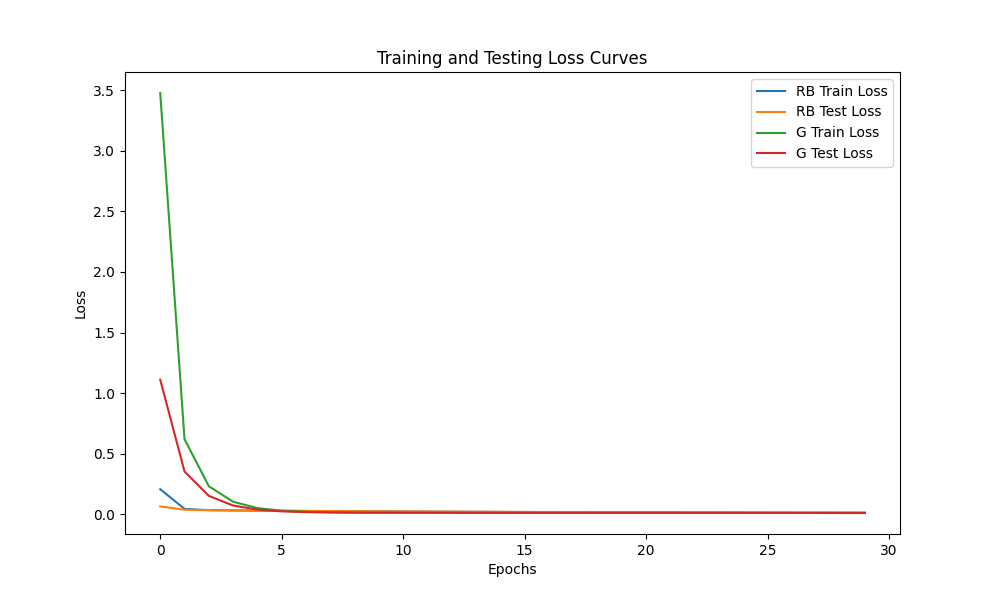
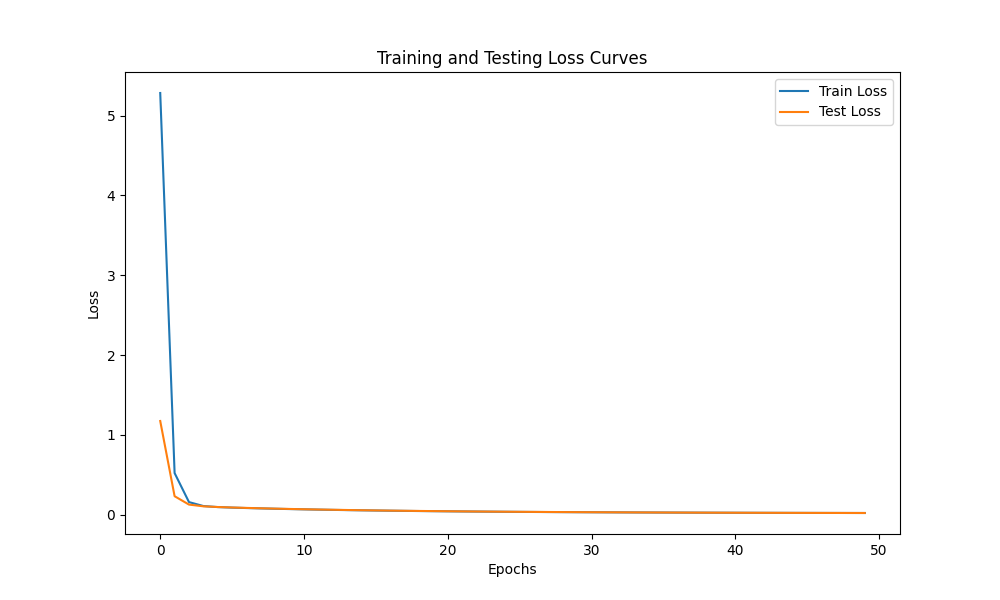
updated visualiser script to work with the new hybrid model

diff --git a/code/tools/visualisers/visualiser.py b/code/tools/visualisers/visualiser.py
@@ -2,19 +2,15 @@ import matplotlib.pyplot as plt
 import numpy as np
 import pandas as pd
 
-rb_train_losses = np.loadtxt("documentation/visualisations/source/ann_PyBrain/rb_train_losses.csv", delimiter=",")
-rb_test_losses = np.loadtxt("documentation/visualisations/source/ann_PyBrain/rb_test_losses.csv", delimiter=",")
-g_train_losses = np.loadtxt("documentation/visualisations/source/ann_PyBrain/g_train_losses.csv", delimiter=",")
-g_test_losses = np.loadtxt("documentation/visualisations/source/ann_PyBrain/g_test_losses.csv", delimiter=",")
+train_losses = np.loadtxt("documentation/visualisations/source/ann_PyBrain/train_losses.csv", delimiter=",")
+test_losses = np.loadtxt("documentation/visualisations/source/ann_PyBrain/test_losses.csv", delimiter=",")
 
 rb_residuals = np.loadtxt("documentation/visualisations/source/ols/rb_ols_residuals.csv", delimiter=",")
 g_residuals = np.loadtxt("documentation/visualisations/source/ols/g_ols_residuals.csv", delimiter=",")
 
 plt.figure(figsize=(10, 6))
-plt.plot(rb_train_losses, label="RB Train Loss")
-plt.plot(rb_test_losses, label="RB Test Loss")
-plt.plot(g_train_losses, label="G Train Loss")
-plt.plot(g_test_losses, label="G Test Loss")
+plt.plot(train_losses, label="Train Loss")
+plt.plot(test_losses, label="Test Loss")
 plt.xlabel("Epochs")
 plt.ylabel("Loss")
 plt.legend()
